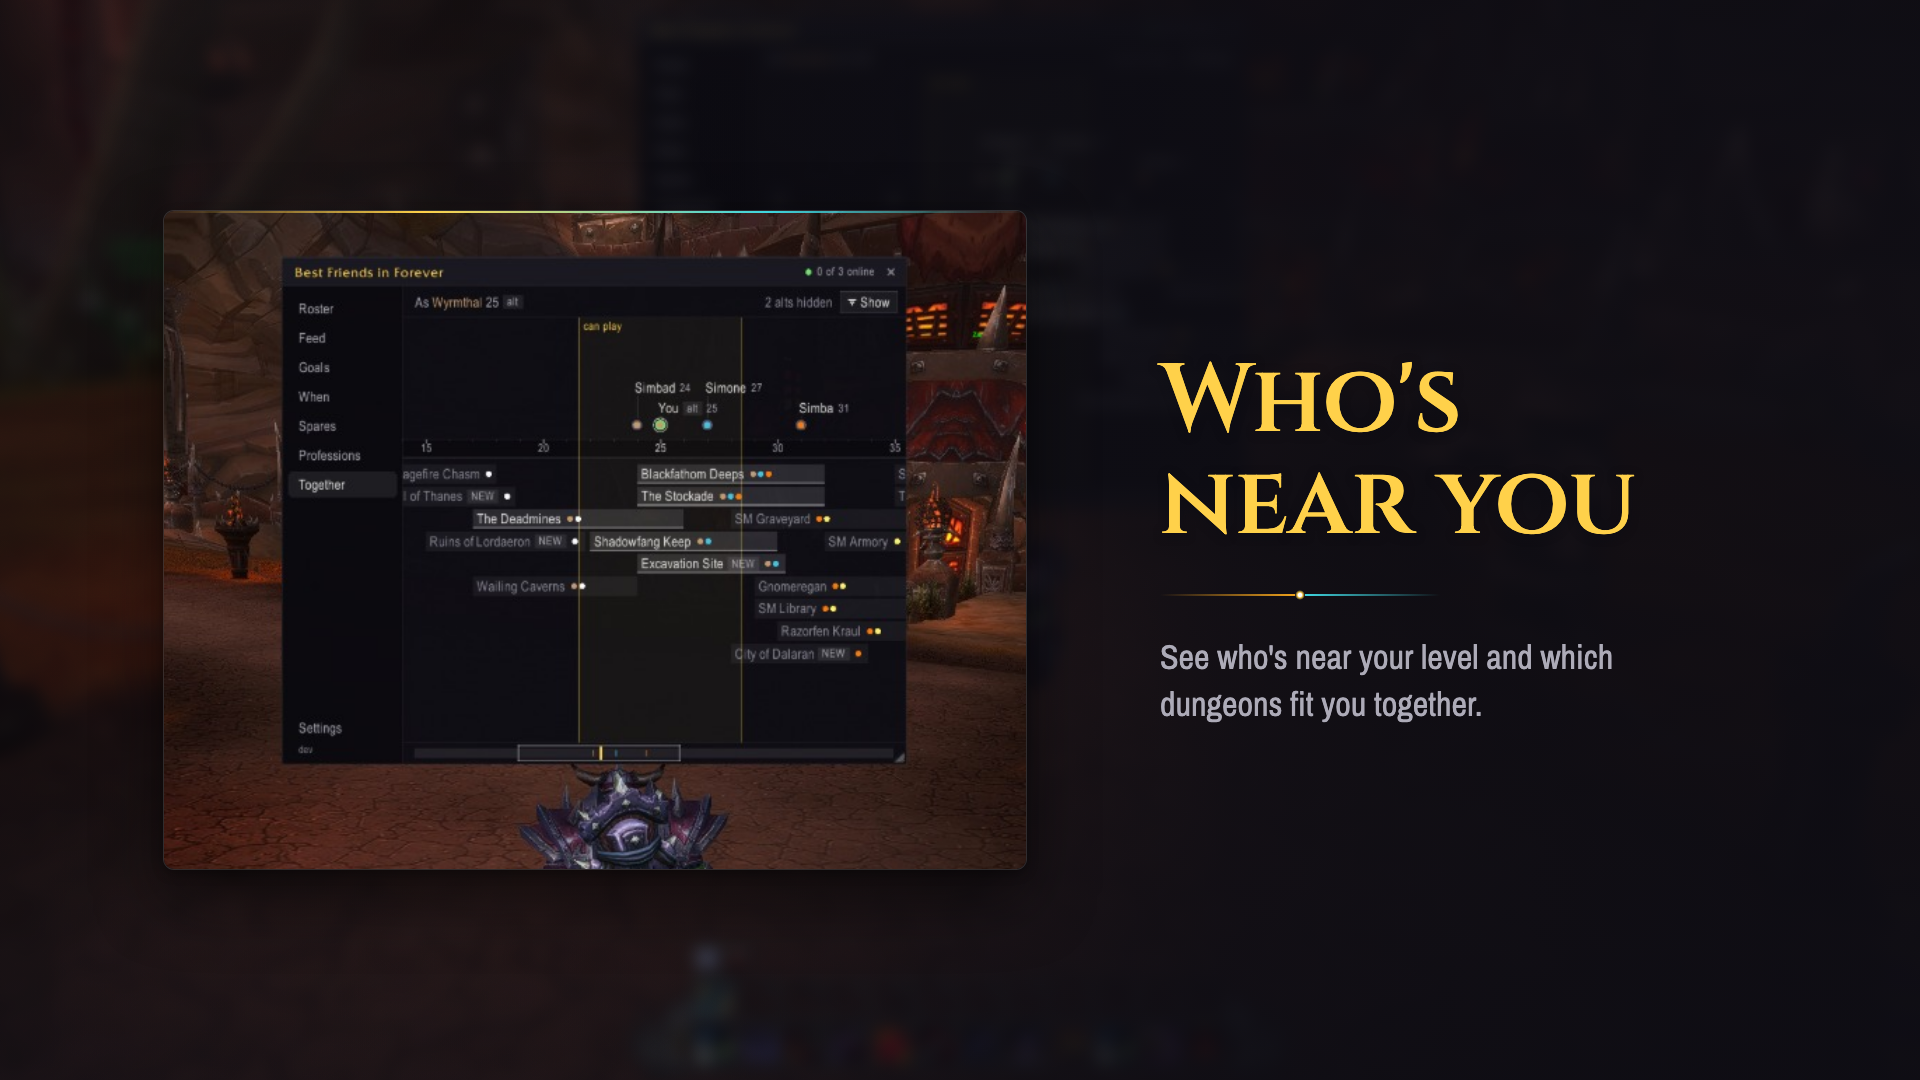
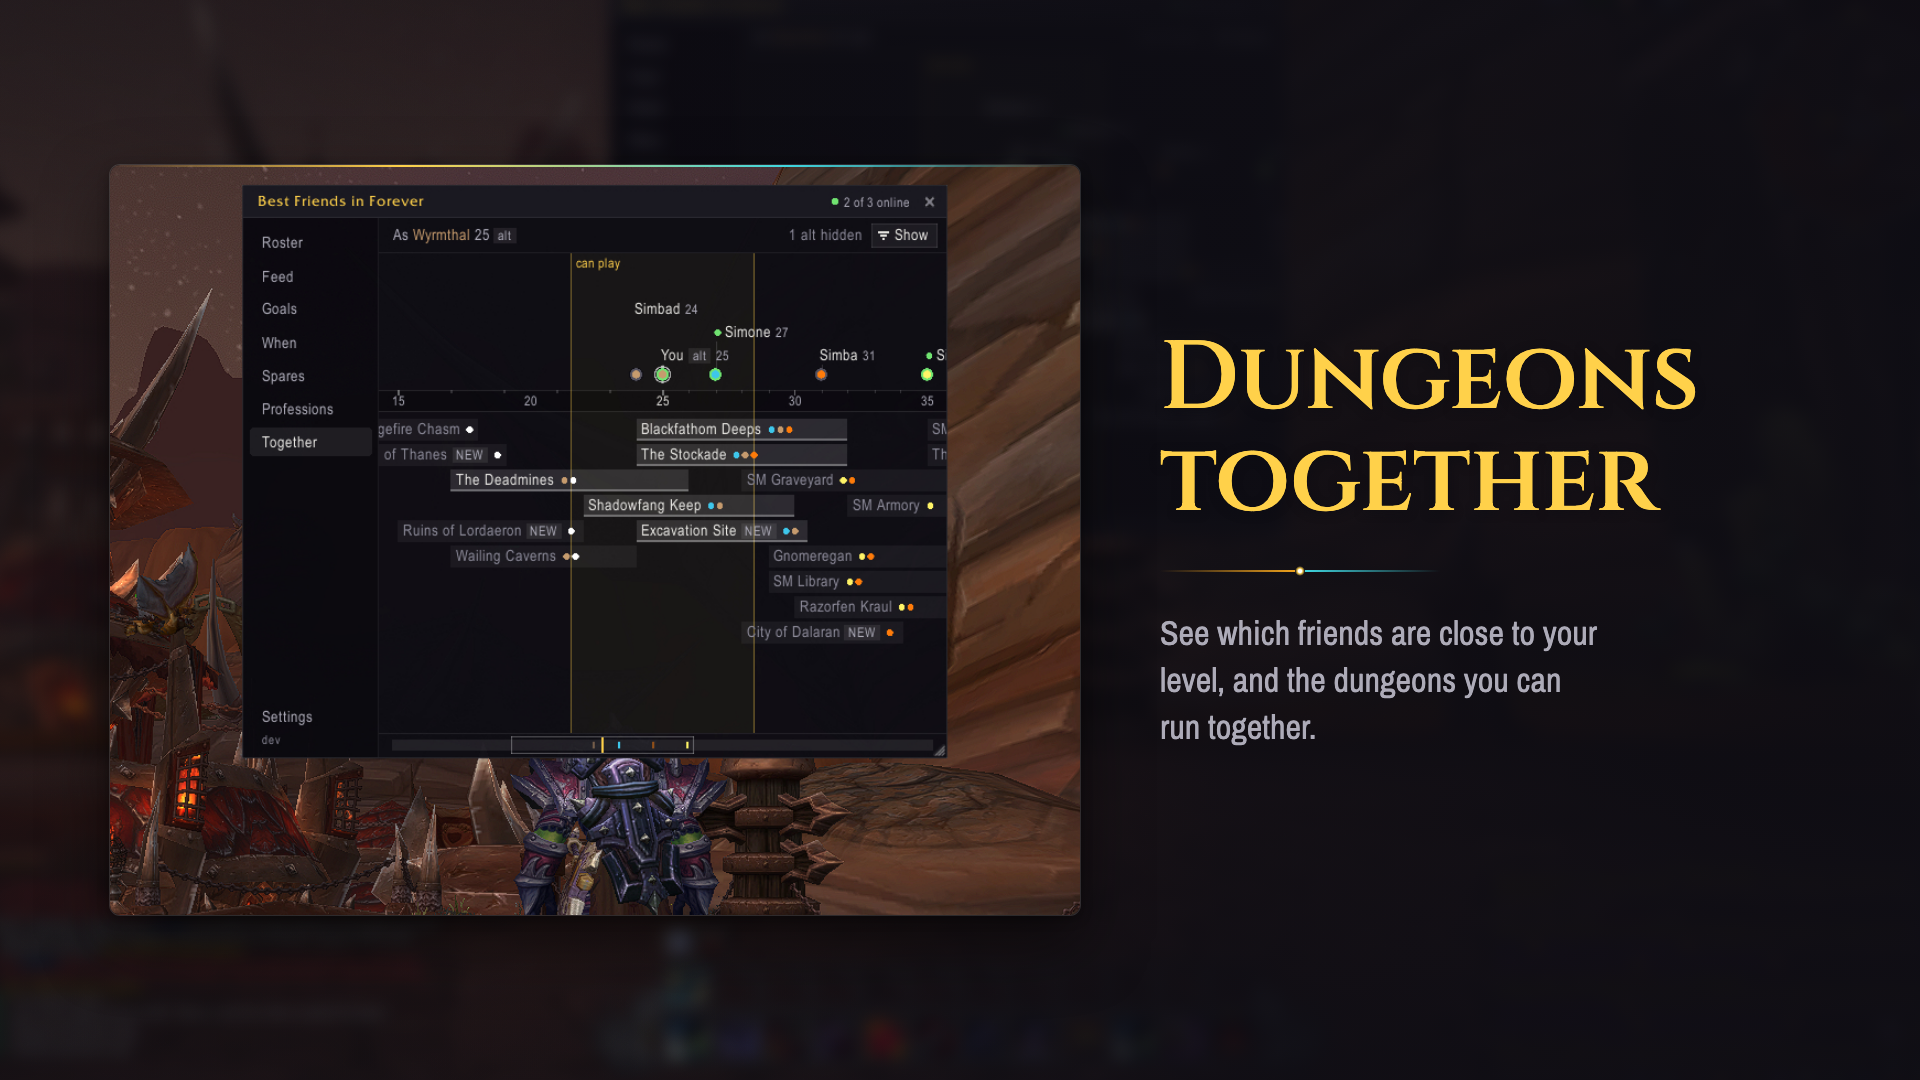
docs: Together slide from a full-size screenshot, titled Dungeons together
"Who's near you" read as the world map pins.

Refs #113

diff --git a/README.md b/README.md
@@ -21,7 +21,7 @@ A World of Warcraft: Forever addon for friends who don't always play at the same
 </tr>
 <tr>
 <td><img src="docs/gallery/out/07-professions.png" alt="Who crafts what"><br><b>Who crafts what.</b> Every friend's professions and skill in one grid, so you know who to ask for a craft.</td>
-<td><img src="docs/gallery/out/08-together.png" alt="Who's near you"><br><b>Who's near you.</b> See who's near your level and which dungeons fit you together.</td>
+<td><img src="docs/gallery/out/08-together.png" alt="Dungeons together"><br><b>Dungeons together.</b> See which friends are close to your level, and the dungeons you can run together.</td>
 </tr>
 </table>
 

diff --git a/docs/design/together.md b/docs/design/together.md
@@ -73,4 +73,4 @@ Then a key (Fits your level, Attunement, New in WoW: Forever, Friends who fit it
 
 ## Telling people
 
-The README lists the tab ("Who's near you") with its gallery slide, `08-together` (`docs/gallery/slides.json`, from `shots/together.jpg`), and `/bff together` among the commands (#113).
+The README lists the tab ("Dungeons together": "near" would read as the world map pins) with its gallery slide, `08-together` (`docs/gallery/slides.json`, from `shots/together.jpg`), and `/bff together` among the commands (#113).
